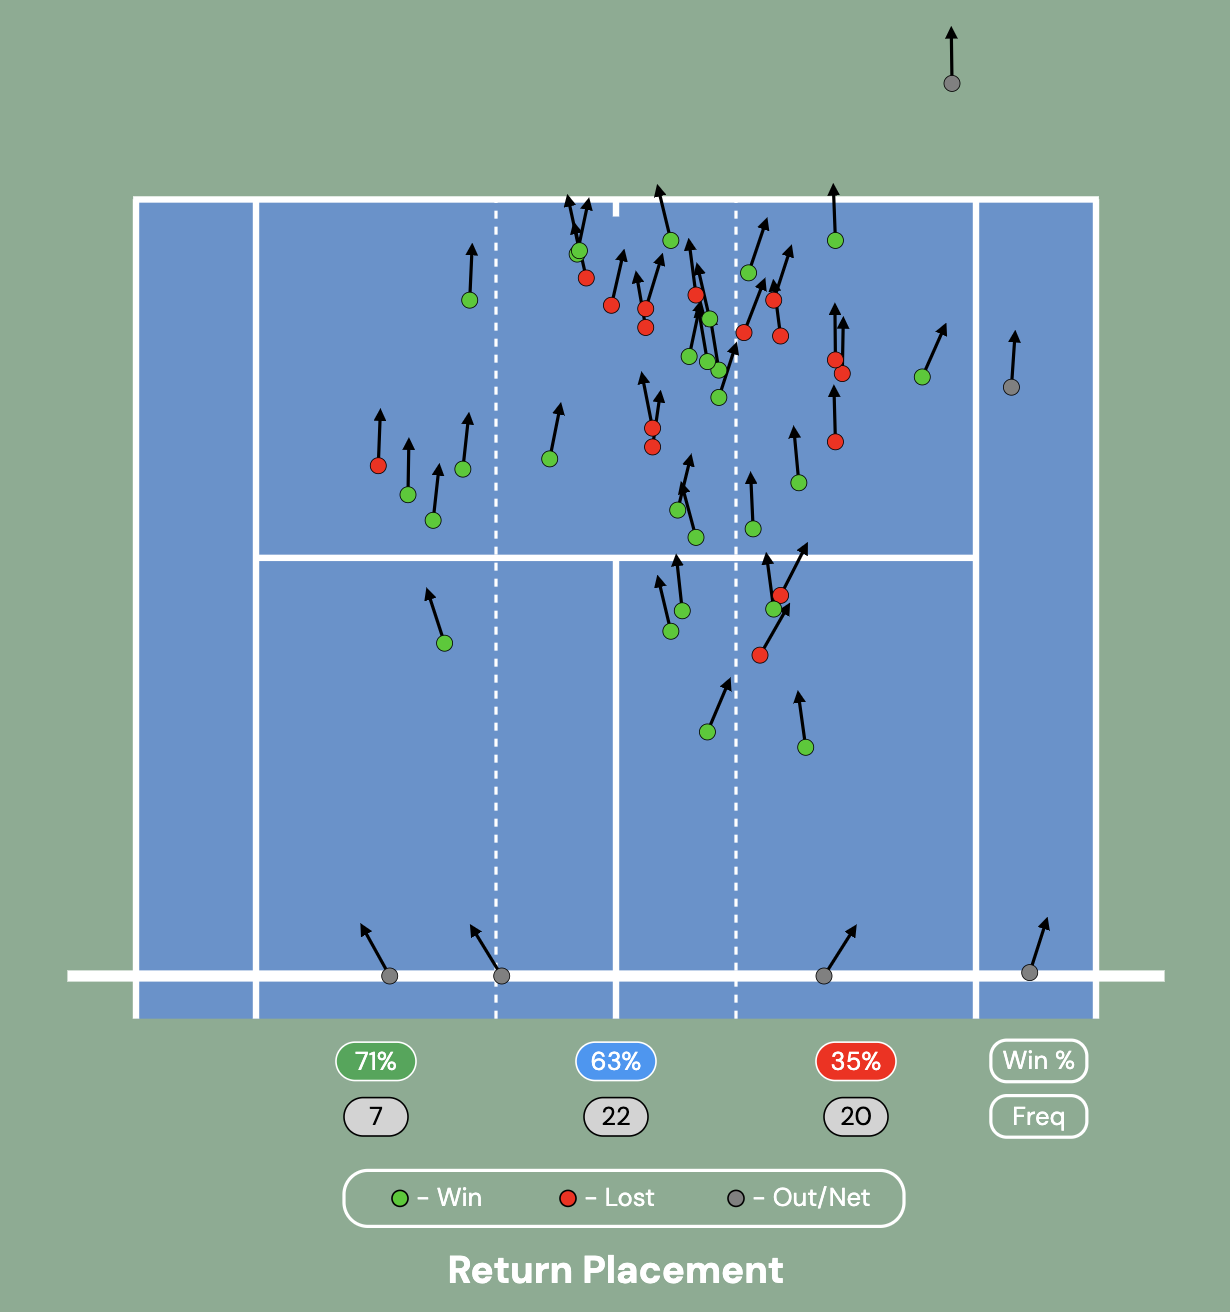
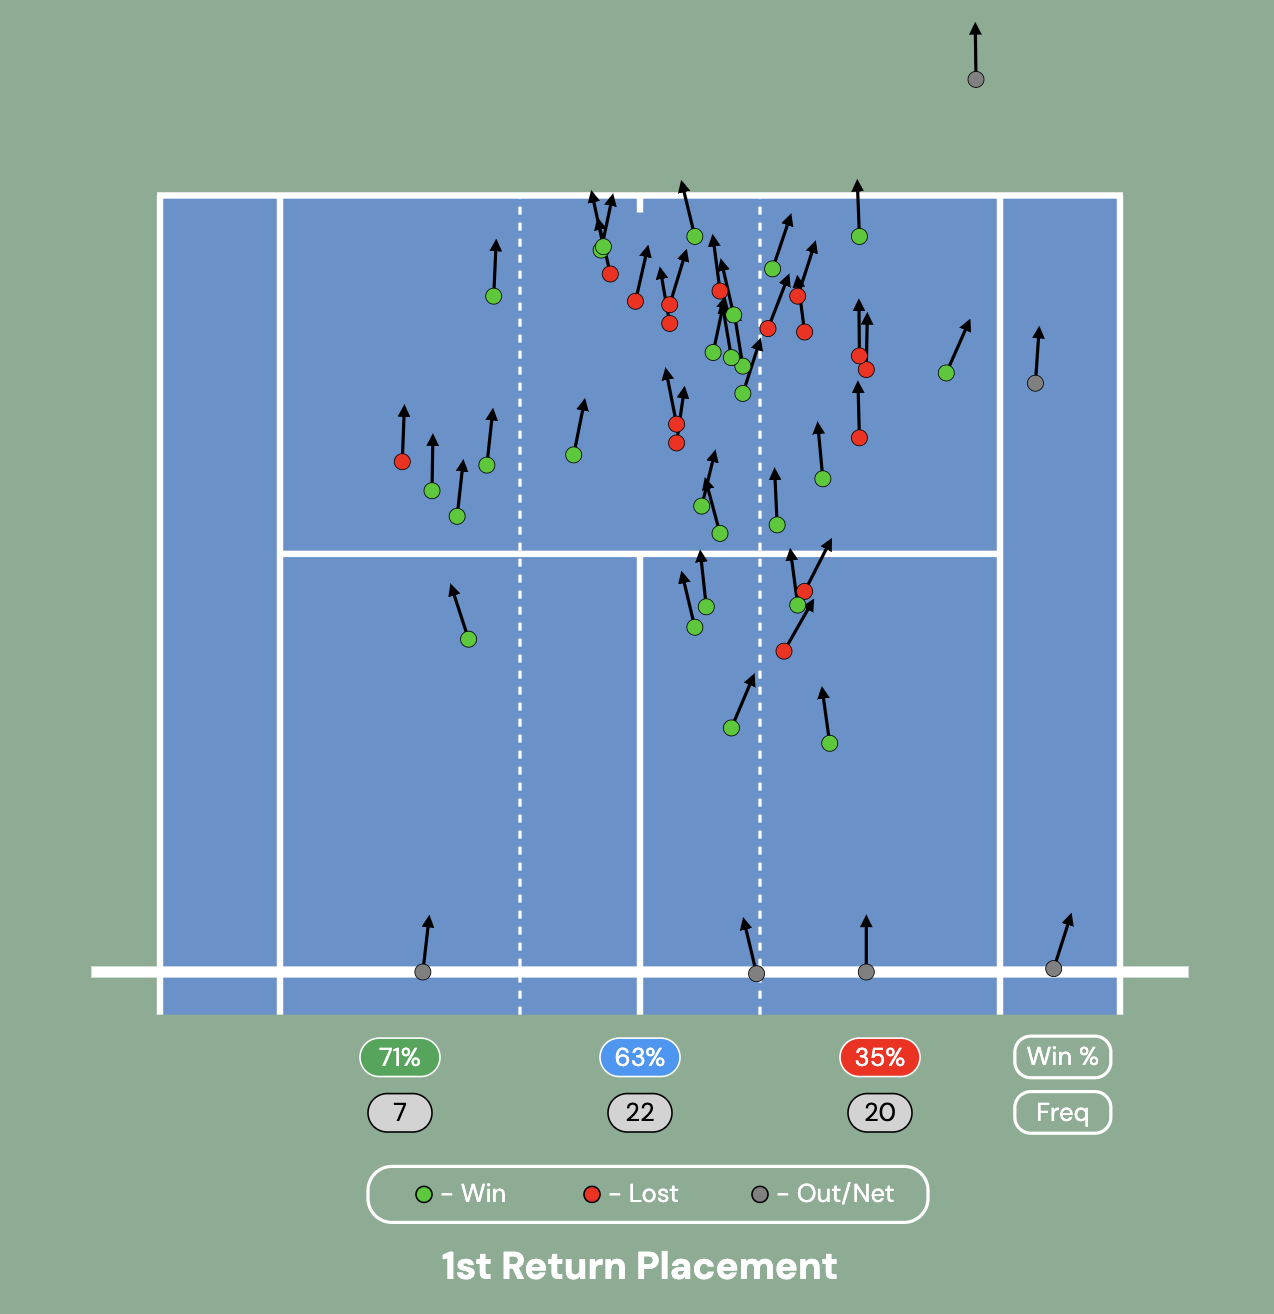
Updated 1st Return Placement viz

Changed region(s): [[0.0618, 0.125, 0.9577, 1.0], [0.7415, 0.0312, 0.8033, 0.0625], [0.6488, 0.5312, 0.6797, 0.5938]]

diff --git a/visuals/standardized/1st Return Placement/return-place.html b/visuals/standardized/1st Return Placement/return-place.html
@@ -289,7 +289,7 @@
                     .attr("stroke", "black")
                     .attr("stroke-width", 0.5)
                     .attr("fill", function(d) {
-                        if (d.isError && d.pointWonBy !== d.shotHitBy) {
+                        if (d.isError) {
                             return "grey";  // Grey if last shot was an error
                         } else if (d.pointWonBy === d.shotHitBy) {
                             return "#00cc00";  // Green for win
@@ -370,13 +370,13 @@
                    .text(function() {
                         if (returns_ucla[0].sideFiltered) {
                             if (returns_ucla[0].fhBhFiltered) {
-                                return `Return Placement - ${returns_ucla[0].side} ${returns_ucla[0].shotFhBh}`
+                                return `1st Return Placement - ${returns_ucla[0].side} ${returns_ucla[0].shotFhBh}`
                             }
                             else {
-                                return `Return Placement - ${returns_ucla[0].side} Side`
+                                return `1st Return Placement - ${returns_ucla[0].side} Side`
                             }
                         } else {
-                            return "Return Placement"
+                            return "1st Return Placement"
                         }
                     });
             }); 
